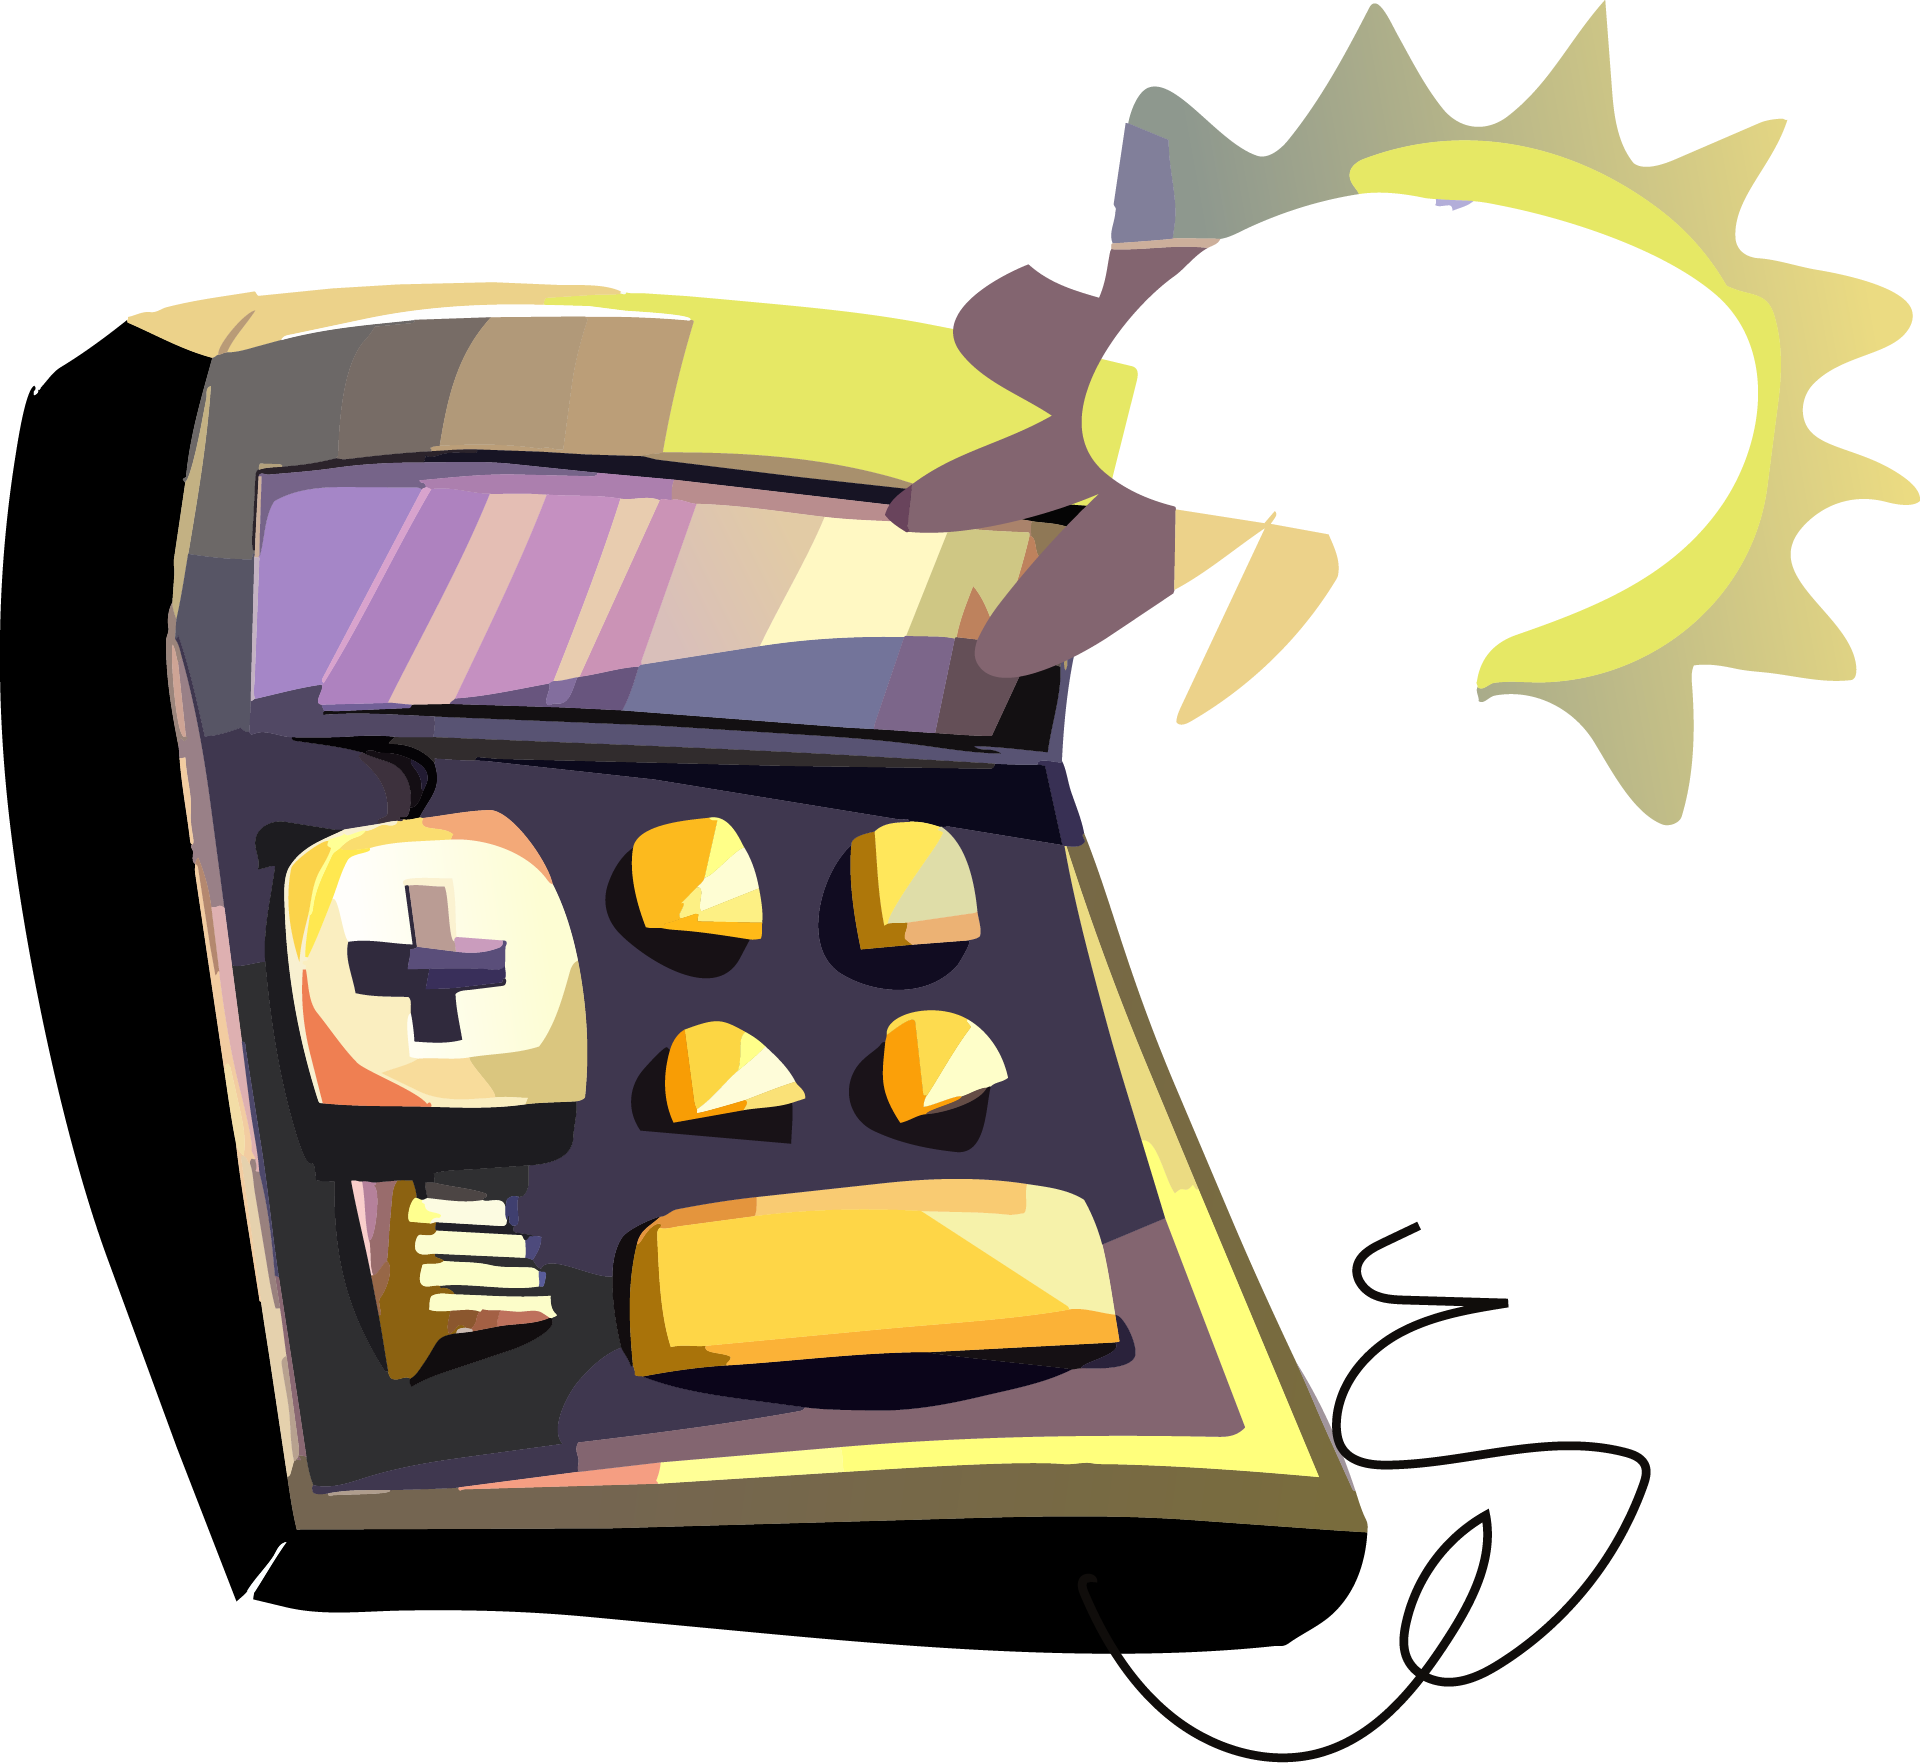
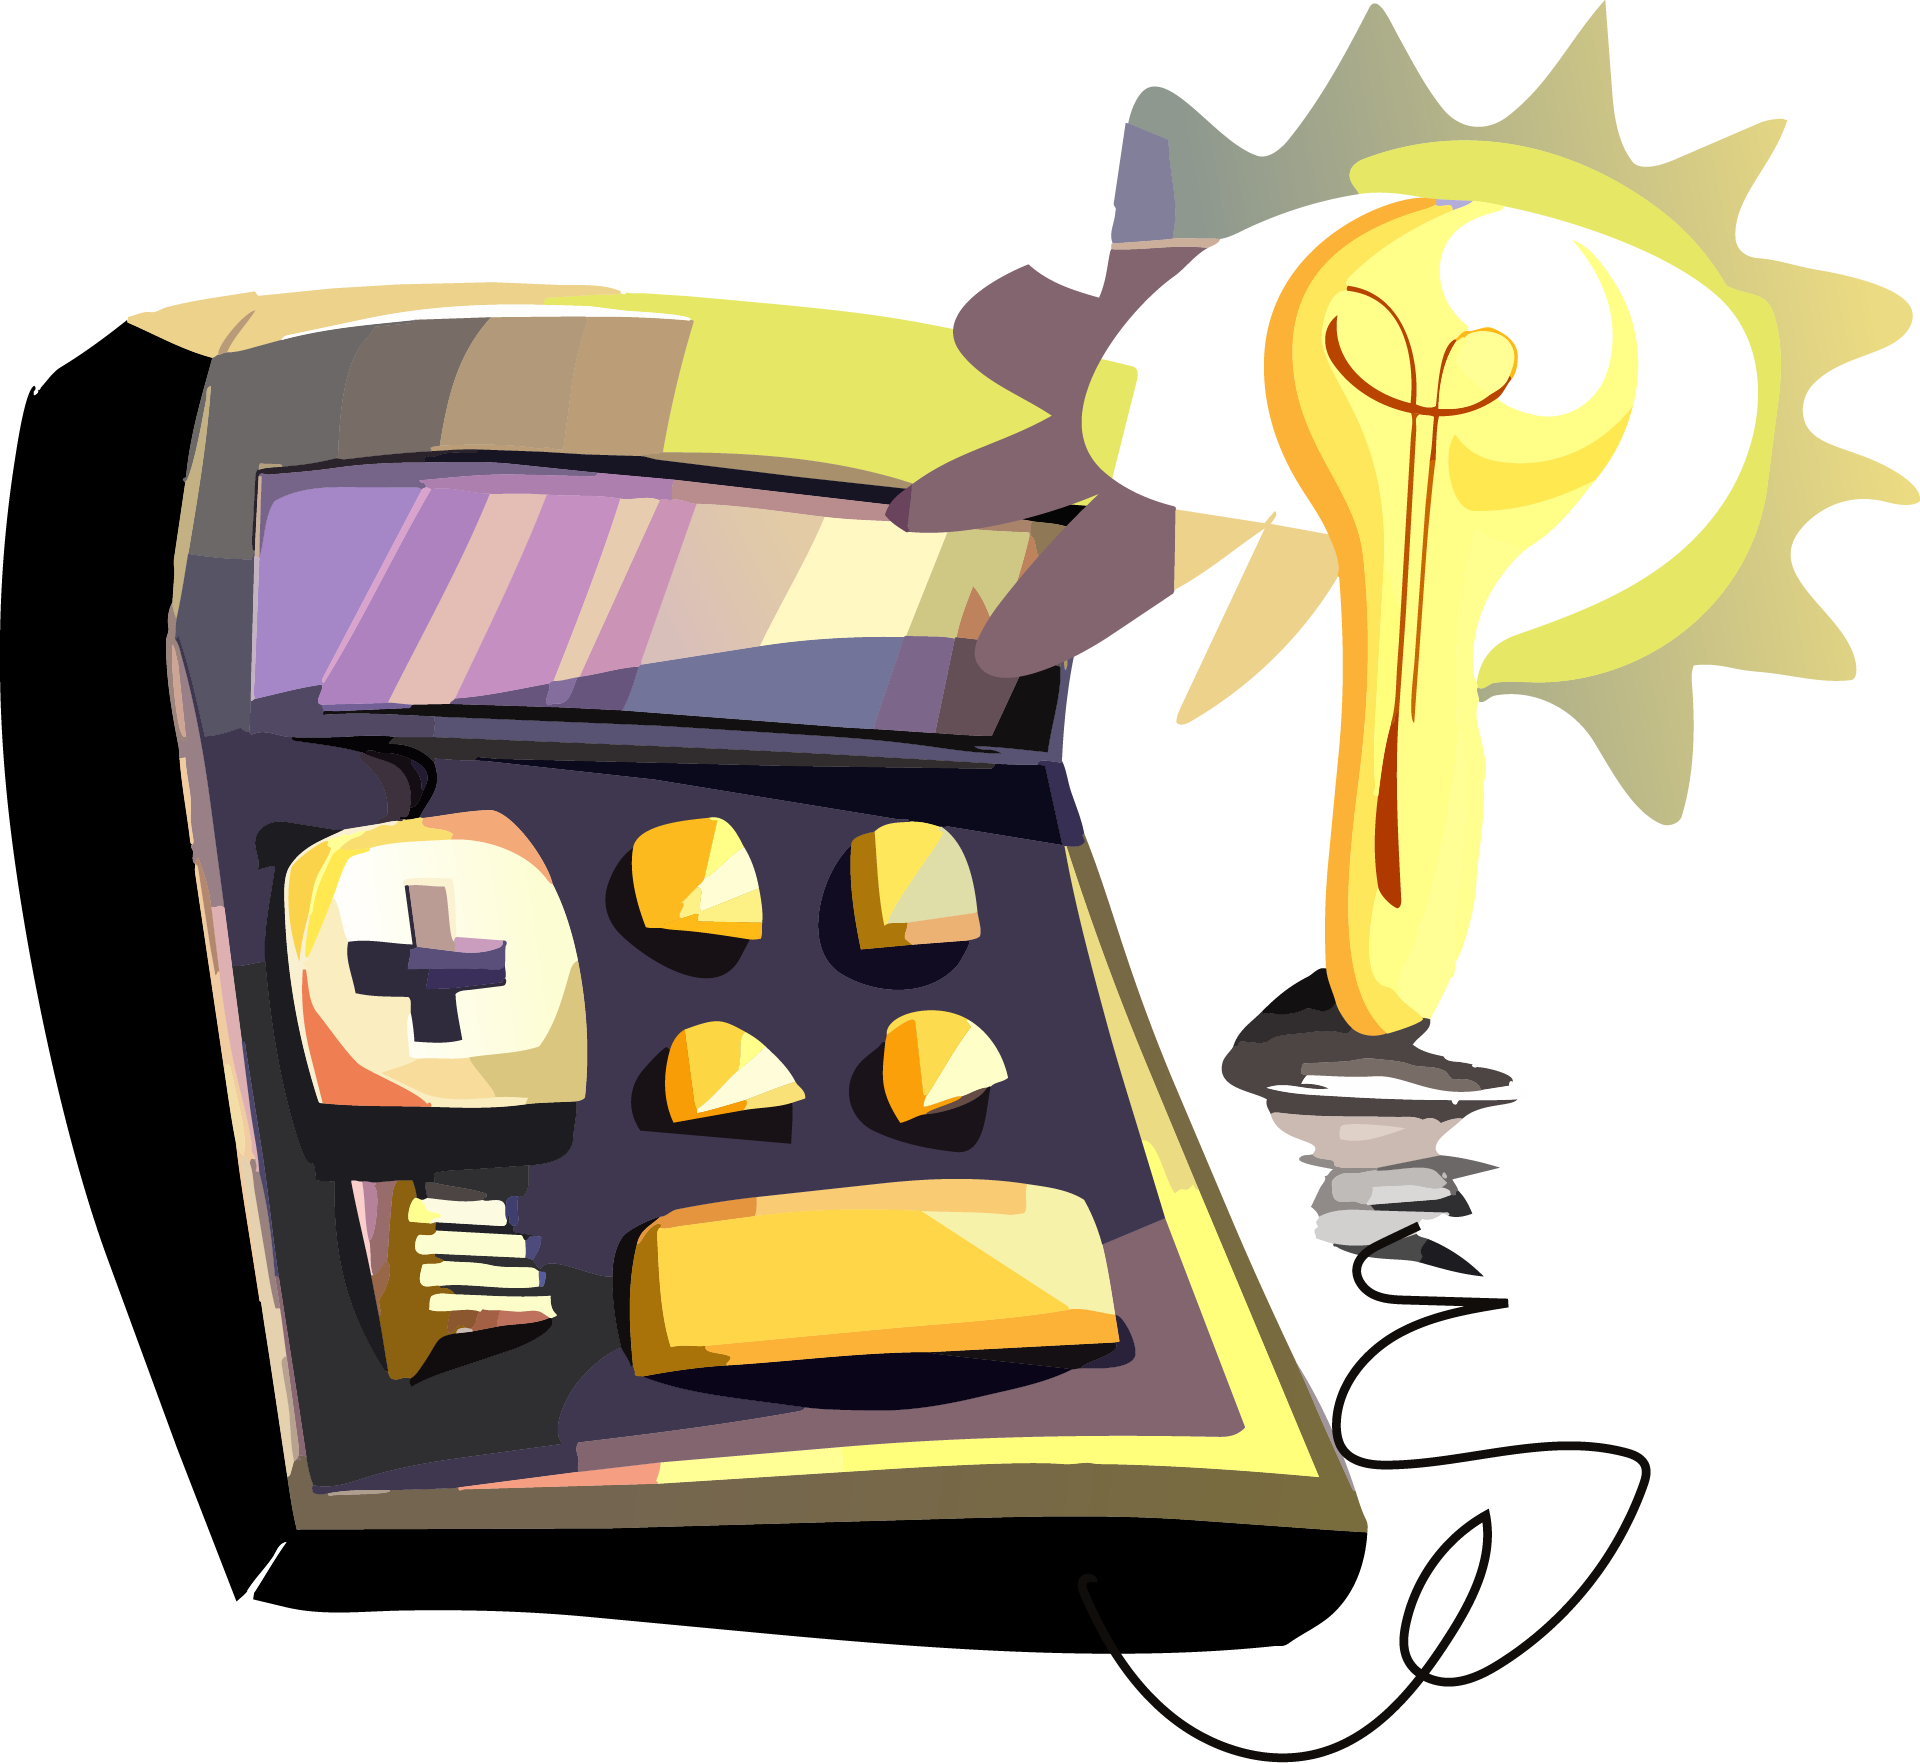
feat(visuals): Rechner-Visual aktualisiert + neues Landing-MainVisual (PNG)
- Rechner-Tool-Visual durch aktualisierte Version ersetzt (Taschenrechner+Glühbirne).
- Landing-MainVisual: Inline-SVG → neues transparentes PNG (Roboter mit Buch),
  Mobile-Aspect-Ratio an 746x527 angepasst.

Changed region(s): [[0.625, 0.0936, 0.875, 0.7175]]

diff --git a/app/globals.css b/app/globals.css
@@ -95,7 +95,7 @@ body[data-landing] {
     width: 100vw !important;
     height: auto !important;
     margin-left: calc(50% - 50vw) !important;
-    aspect-ratio: 1309.52 / 855.59 !important;
+    aspect-ratio: 746 / 527 !important;
   }
   .ftools-spacer {
     height: auto !important;

diff --git a/components/sections/FinanztoolsHero.tsx b/components/sections/FinanztoolsHero.tsx
@@ -284,7 +284,7 @@ export default function FinanztoolsHero({ posts = [], latestPosts = [] }: { post
                 JS-Ternary) damit Mobile-SSR nicht initial in Desktop-Position
                 rendert und dann hüpft. */}
             <div className="ftools-visual-wrap">
-              <InlineSVG src="/assets/visuals/mainVisualLanding.svg" style={{ width: "100%", height: "100%" }} />
+              <img src="/assets/visuals/mainVisualLanding.png" alt="" aria-hidden style={{ width: "100%", height: "100%", objectFit: "contain" }} />
             </div>
           </div>
 